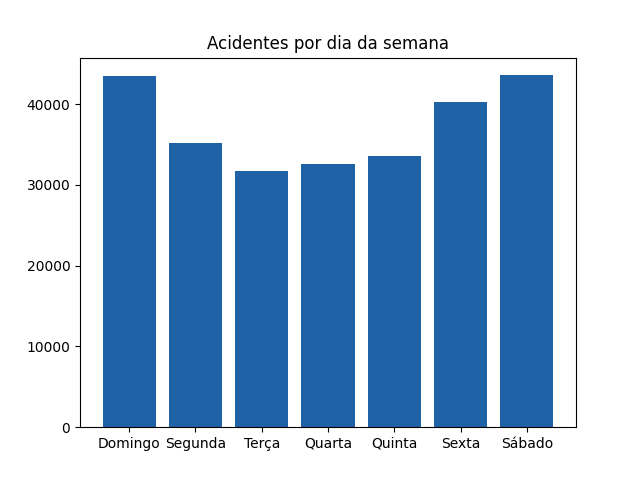
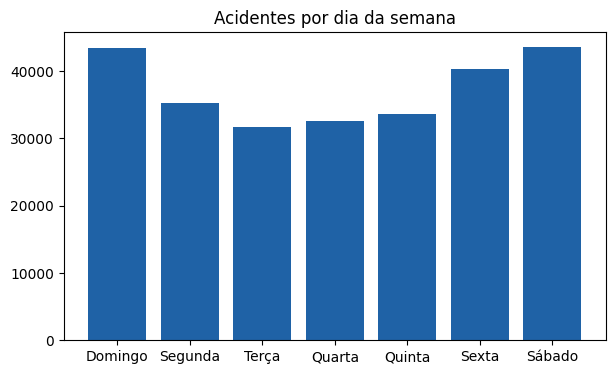
Atualiza o tamanho das imagens

Changed region(s): [[0.0, 0.0294, 0.987, 0.9706]]

diff --git a/README.md b/README.md
@@ -39,7 +39,7 @@ O objetivo deste projeto é analisar os dados de acidentes em rodovias federais 
 
 - Qual são as principais características dos acidentes mais graves?
 
-### Pipeline
+## Pipeline
 
 ![images](images/Diagrama_Projeto.png)
 
@@ -47,13 +47,19 @@ O objetivo deste projeto é analisar os dados de acidentes em rodovias federais 
 
 Os dados foram coletados diretamente do site da PRF, disponíveis em: https://portal.prf.gov.br/dados-abertos-acidentes. O dataset utilizado é referente ao ano de 2020 a 2023, e contém informações sobre os acidentes ocorridos nas rodovias federais do Brasil.
 
-2. **Limpeza e Pré-processamento**
+### 2. **Limpeza e Pré-processamento**
 
 Nesta etapa, os dados foram tratados e limpos, removendo valores nulos, duplicados e outliers. Além disso, foram realizadas transformações e ajustes necessários para a análise.
 
-3. **Modelagem de dados**
+### 3. **Modelagem de dados**
 
-Os dados foram modelados e importados para o banco de dados PostgreSQL, utilizando o docker para a criação do container. Em seguida, foram realizadas consultas SQL para a extração de informações relevantes.
+Os dados foram modelados e importados para o banco de dados PostgreSQL, utilizando o docker para a criação do container. Em seguida, foram realizadas consultas SQL para a extração de informações relevantes. A modelagem dos dados foi feita da seguinte forma:
+
+- **Acidentes**: informações sobre os acidentes, como data, hora, tipo, causa, gravidade, etc.
+
+- **Envolvidos**: informações sobre os envolvidos nos acidentes, como condutores, passageiros, pedestres, etc.
+
+Com o intuito de diminuir a redundância de dados, foi criada uma tabela de dimensão para armazenar as informações dos envolvidos, e uma tabela fato para armazenar as informações dos acidentes.
 
 ![image](images/Data_Modelling.png)
 
@@ -72,21 +78,21 @@ Foi aplicado um modelo de machine learning para prever a gravidade dos acidentes
 
 Por fim, os resultados obtidos foram apresentados utilizando streamlit e PowerBI para a criação de dashboards interativos, facilitando a visualização e interpretação dos dados.
 
-### Insights
+## Insights
 
-Praticamente não houve variação no número de acidentes ao longo dos anos, apenas em 2023 houve um aumento significativo.
-    
+Ao analisar os dados, observou-se que praticamente não houve variação no número de acidentes ao longo dos anos, exceto em 2023, quando houve um aumento significativo.
+     
 ![](images/acidentes_por_ano.png)
 
-É possível observar que nos meses de janeiro, julho, outubro e dezembro há um aumento no número de acidentes, o que pode estar relacionado ao período de férias e festas de final de ano.
+A distribuição mensal dos acidentes revela que nos meses de janeiro, julho, outubro e dezembro há um aumento no número de acidentes, **relacionado aos períodos de férias e festas de fim de ano**.
 
 ![](images/acidentes_por_mes.png)
 
-Fica mais evidente quando o gráfico fica segmentado por ano. Além disso é possível observar que a tentativa de "lockdown" surtiu efeito em 2020, com uma queda apartir de março, porém após julho os números voltaram a subir.
+Esse padrão fica mais evidente quando o gráfico é segmentado por ano. Além disso, observa-se que a tentativa de "*lockdown*" em 2020 resultou em uma queda no número de acidentes a partir de março. No entanto, após julho, os números voltaram a subir.
 
 ![](images/acidentes_por_mes_e_ano.png)
 
-Nos dias da semana, é possível observar que os finais de semana (sábado e domingo) possuem um maior número de acidentes, o que pode estar relacionado ao aumento do fluxo de veículos nas rodovias, seguido pelo dia de sexta-feira.
+Analisando os dias da semana, percebe-se que os **finais de semana** (sábado e domingo) têm um maior número de acidentes, o que pode estar relacionado ao aumento do fluxo de veículos nas rodovias. A sexta-feira também apresenta um número elevado de acidentes.
 
 ![](images/acidentes_por_dia_da_semana.png)
 
@@ -98,7 +104,7 @@ Os horários de pico para acidentes são entre 16h e 19h, o que pode estar relac
 
 ![](images/acidentes_por_hora.png)
 
-Porém os horários que apresentam maior gravidade são entre 22hrs até as 5hrs, o que pode estar relacionado a diversos fatores, como a falta de visibilidade, cansaço e ingestão de álcool, além das pistas estarem mais livres, permitindo que os veículos atinjam maiores velocidades.
+Entretanto, os horários que apresentam **maior gravidade são entre 22h e 5h**. Esse aumento na gravidade pode estar relacionado a diversos fatores, como falta de visibilidade, cansaço e ingestão de álcool, além das pistas mais livres, permitindo que os veículos atinjam maiores velocidades.
 
 A tabela a seguir apresenta os 5 horarios com maior taxa de mortalidade de cada ano analisado.
 
@@ -110,15 +116,15 @@ A região com maior número de acidentes é a região sudeste, seguida pela regi
 
 ![](images/acidentes_por_regiao.png)
 
-Porém, a região nordeste é a que possui a maior taxa de mortalidade, seguida pela região norte e centro-oeste. Já a região sul é a que possui a menor taxa de mortalidade.
+Porém, a **região nordeste é a que possui a maior taxa de mortalidade**, seguida pela região norte e centro-oeste. Já a região sul é a que possui a menor taxa de mortalidade.
 
 ![image](images/taxa_mortalidade_regiao.png)
 
-Olhando para os estados, Minas Gerais é o estado com o maior número de acidentes, seguido por Santa Catarina e Paraná. Já os estados do norte possuem o menor número de acidentes.
+Olhando para os estados, Minas Gerais é o estado com o maior número de acidentes, seguido por Santa Catarina e Paraná. Já os estados do norte possuem o menor número de acidentes, pois possuem uma menor densidade populacional e menor fluxo de veículos, o que influencia diretamente no número de acidentes. Além da possibilidade de subnotificação de acidentes.
 
 ![](images/acidentes_por_estado.png)
 
-Porém os estados do norte e nordeste apresentam mais que o dobro de taxa de mortalidade em relação aos estados do sul e sudeste. 
+No entanto, os estados do norte e nordeste apresentam mais que o dobro de taxa de mortalidade em relação aos estados do sul e sudeste. Isso pode estar relacionado a diversos fatores, como a qualidade das rodovias, a falta de sinalização, a imprudência dos motoristas e a falta de atendimento médico adequado.
 
 ![image](images/taxa_mortalidade_estados.png)
 
